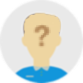
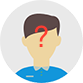
完善错误提示以及用户头像

Changed region(s): [[0.2651, 0.1446, 0.747, 0.5783], [0.1687, 0.7711, 0.8193, 1.0]]

diff --git a/views/_error.html b/views/_error.html
@@ -18,29 +18,26 @@
       <div class="single-page-con">
         <div class="layout">
           <div class="layout-content">
-            <div class="row">
-              <div class="col-md-12">
-                <div class="panel panel-default">
-                  <div class="panel-heading">
-                    <h3 class="panel-title">访问出错
-                      <small>({{code}})</small>
-                    </h3>
-                  </div>
-                  <div class="panel-body" style="padding: 10px">
-                    <p>{{message}}</p>
-                    <p style="margin-top: 10px">
-                      {% if 'links' in globals() %}
-                      {% for text, url in links %}
-                      <a href="{{url}}" class="btn btn-primary">{{text}}</a>
-                      {% end %}
-                      {% end %}
-                      <a href="javascript:history.back(-1)" class="btn btn-default">
-                        <i class="glyphicon glyphicon-chevron-left"></i> 返回前页
-                      </a>
-                      <a href="/" class="btn btn-default"><i class="glyphicon glyphicon-home"></i> 回到首页</a>
-                    </p>
-                  </div>
-                </div>
+
+            <div class="panel panel-default">
+              <div class="panel-heading">
+                <h3 class="panel-title">访问出错
+                  <small>({{code}})</small>
+                </h3>
+              </div>
+              <div class="panel-body" style="padding: 10px">
+                <p>{{message}}</p>
+                <p style="margin-top: 10px">
+                  {% if 'links' in globals() %}
+                  {% for text, url in links %}
+                  <a href="{{url}}" class="btn btn-primary">{{text}}</a>
+                  {% end %}
+                  {% end %}
+                  <a href="javascript:history.back(-1)" class="btn btn-default">
+                    <i class="glyphicon glyphicon-chevron-left"></i> 返回前页
+                  </a>
+                  <a href="/" class="btn btn-default"><i class="glyphicon glyphicon-home"></i> 回到首页</a>
+                </p>
               </div>
             </div>
           </div>

diff --git a/views/_404.html b/views/_404.html
@@ -16,24 +16,20 @@
     <div class="main-content">
       <!--公共头部 -->
       {% module CommonHead() %}
-      <div class="single-page-con">
+      <div class="single-page-con" style="">
         <div class="layout">
           <div class="layout-content">
-            <div class="row">
-              <div class="col-md-12">
-                <div class="panel panel-default">
-                  <div class="panel-heading">
-                    <h3 class="panel-title">页面不存在</h3>
-                  </div>
-                  <div class="panel-body" style="padding: 10px">
-                    <p>您要访问的页面不存在，请检查输入的地址是否有误。<br>{{request.uri}}</p>
-                    <p style="margin-top: 10px">
-                      <a href="javascript:history.back(-1)" class="btn btn-default">
-                        <i class="glyphicon glyphicon-chevron-left"></i> 返回前页</a>
-                      <a href="/" class="btn btn-default"><i class="glyphicon glyphicon-home"></i> 回到首页</a>
-                    </p>
-                  </div>
-                </div>
+            <div class="panel panel-default" style="height: 100%; margin: 0">
+              <div class="panel-heading">
+                <h3 class="panel-title">页面不存在</h3>
+              </div>
+              <div class="panel-body" style="padding: 20px">
+                <p>您要访问的页面不存在，请检查输入的地址是否有误。<br>{{request.uri}}</p>
+                <p style="margin-top: 10px">
+                  <a href="javascript:history.back(-1)" class="btn btn-default">
+                    <i class="glyphicon glyphicon-chevron-left"></i> 返回前页</a>
+                  <a href="/" class="btn btn-default"><i class="glyphicon glyphicon-home"></i> 回到首页</a>
+                </p>
               </div>
             </div>
           </div>

diff --git a/views/home.html b/views/home.html
@@ -29,7 +29,8 @@
                   <p class="title"><img src="{{ static_url('imgs/person.png') }}" alt=""></p>
                   <div class="person clearfix">
                     {% set ava = 'ava1.png' if current_user and current_user.get('gender') == '男' else 'ava2.png' if current_user and current_user.get('gender') == '女' else 'ava3.png' %}
-                    <img class="ava fl" src="{{ static_url((current_user or {}).get('img') or 'imgs/' + ava) }}" alt="">
+                    {% set ava_url = current_user.get('img') if current_user and current_user.get('img') else 'imgs/' + ava %}
+                    <img class="ava fl" src="{{ static_url(ava_url) }}" alt="">
                     <dl class="fl">
                       <dt>上午好，{{current_user['name']}}</dt>
                       <dd>访问情况：今日访问 {{visit_count}} 次</dd>

diff --git a/views/common_head.html b/views/common_head.html
@@ -17,7 +17,9 @@
         </span>
         <span>
 					<a href="/user/my/profile" data-toggle="tooltip" data-placement="bottom" title="" data-original-title="个人中心">
-					<img class="thumb-sm img-circle" src="{{ static_url((current_user or {}).get('img') or 'imgs/user.png') }}" style="margin-top: 10px;height: 32px; width: 32px;">
+            {% set ava = 'ava1.png' if current_user and current_user.get('gender') == '男' else 'ava2.png' if current_user and current_user.get('gender') == '女' else 'ava3.png' %}
+            {% set ava_url = current_user.get('img') if current_user and current_user.get('img') else 'imgs/' + ava %}
+					<img class="thumb-sm img-circle" src="{{ static_url(ava_url) }}" style="margin-top: 10px;height: 32px; width: 32px;">
 					</a>
 				</span>
         <span>

diff --git a/static/css/base.css b/static/css/base.css
@@ -320,6 +320,7 @@ a:hover {
     z-index: 1;
     transition: left .3s;
     margin-left: 200px;
+    height: calc(100% - 56px);
 }
 
 .layout {
@@ -327,8 +328,9 @@ a:hover {
 }
 
 .layout-content {
+    height: 100%;
     min-height: 200px;
-    margin: 5px;
+    padding: 5px;
 }
 
 .sub-ul-hidden {
